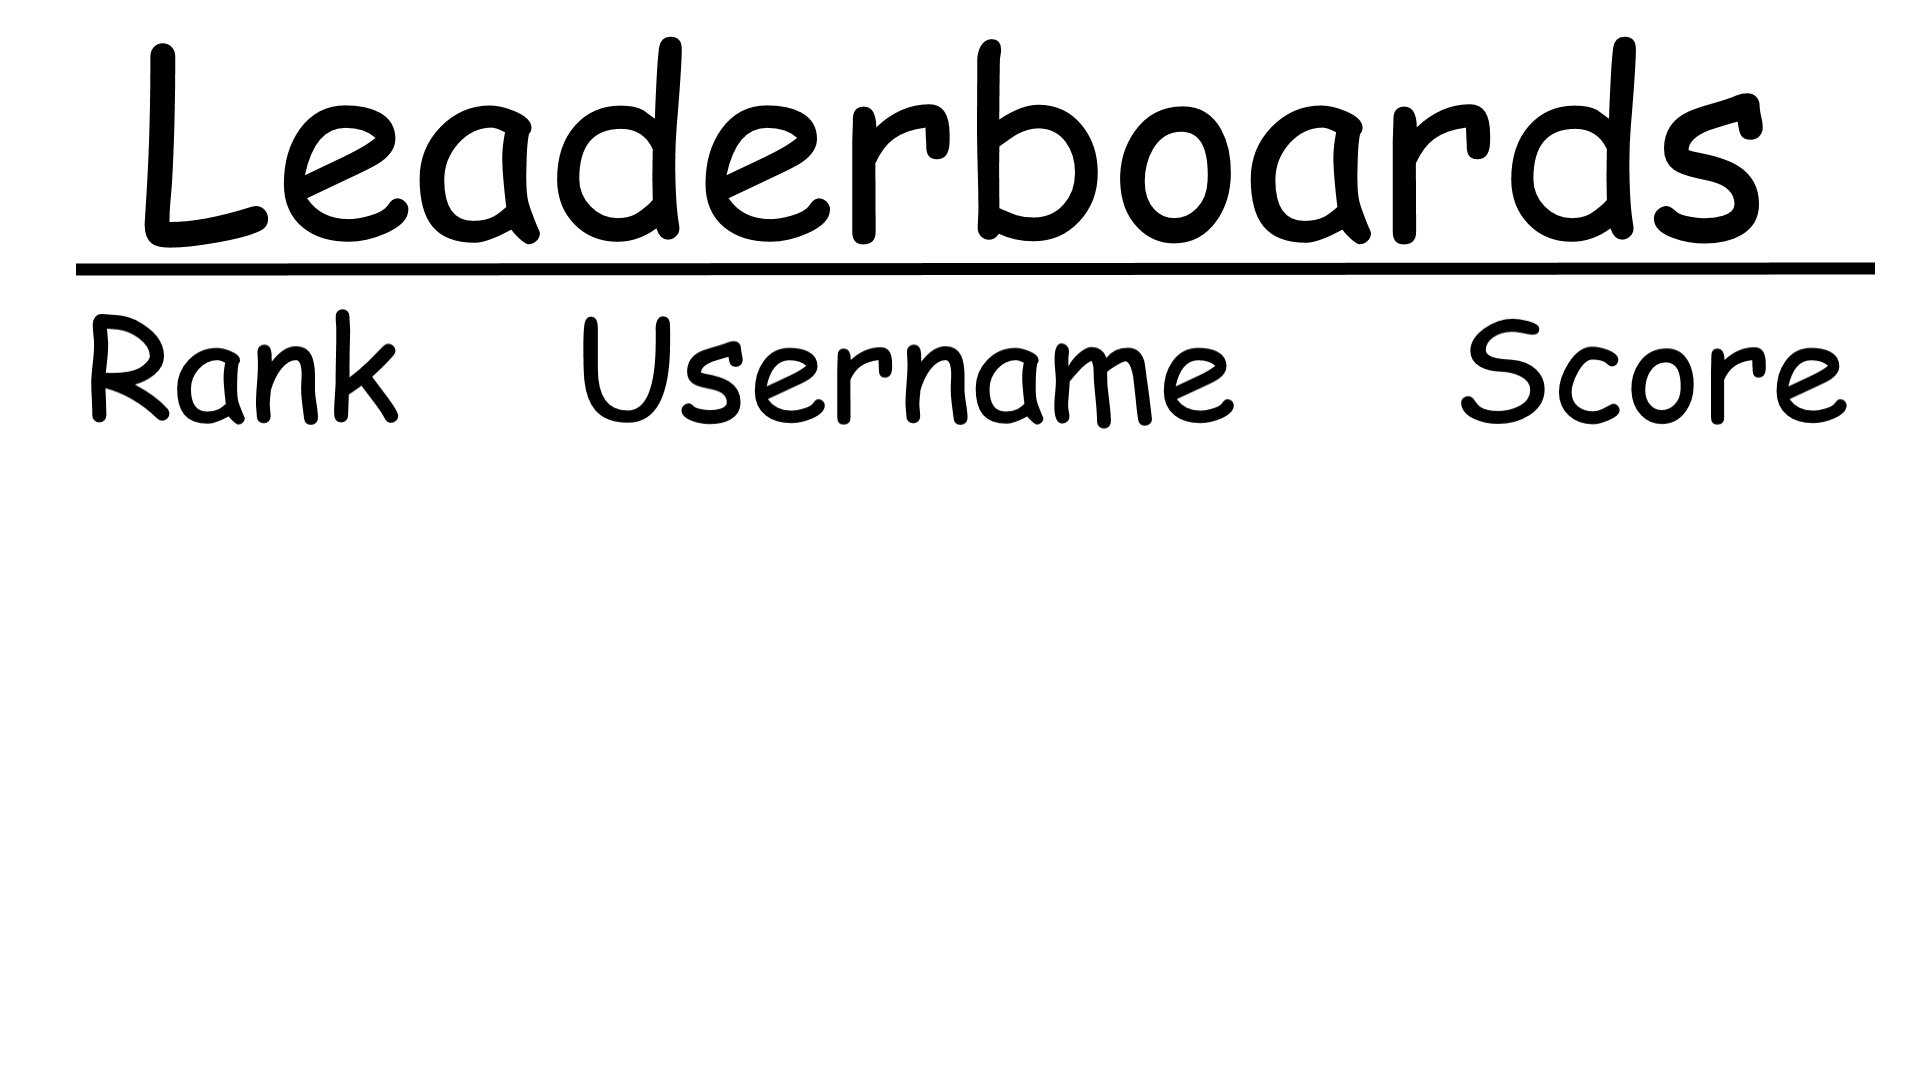
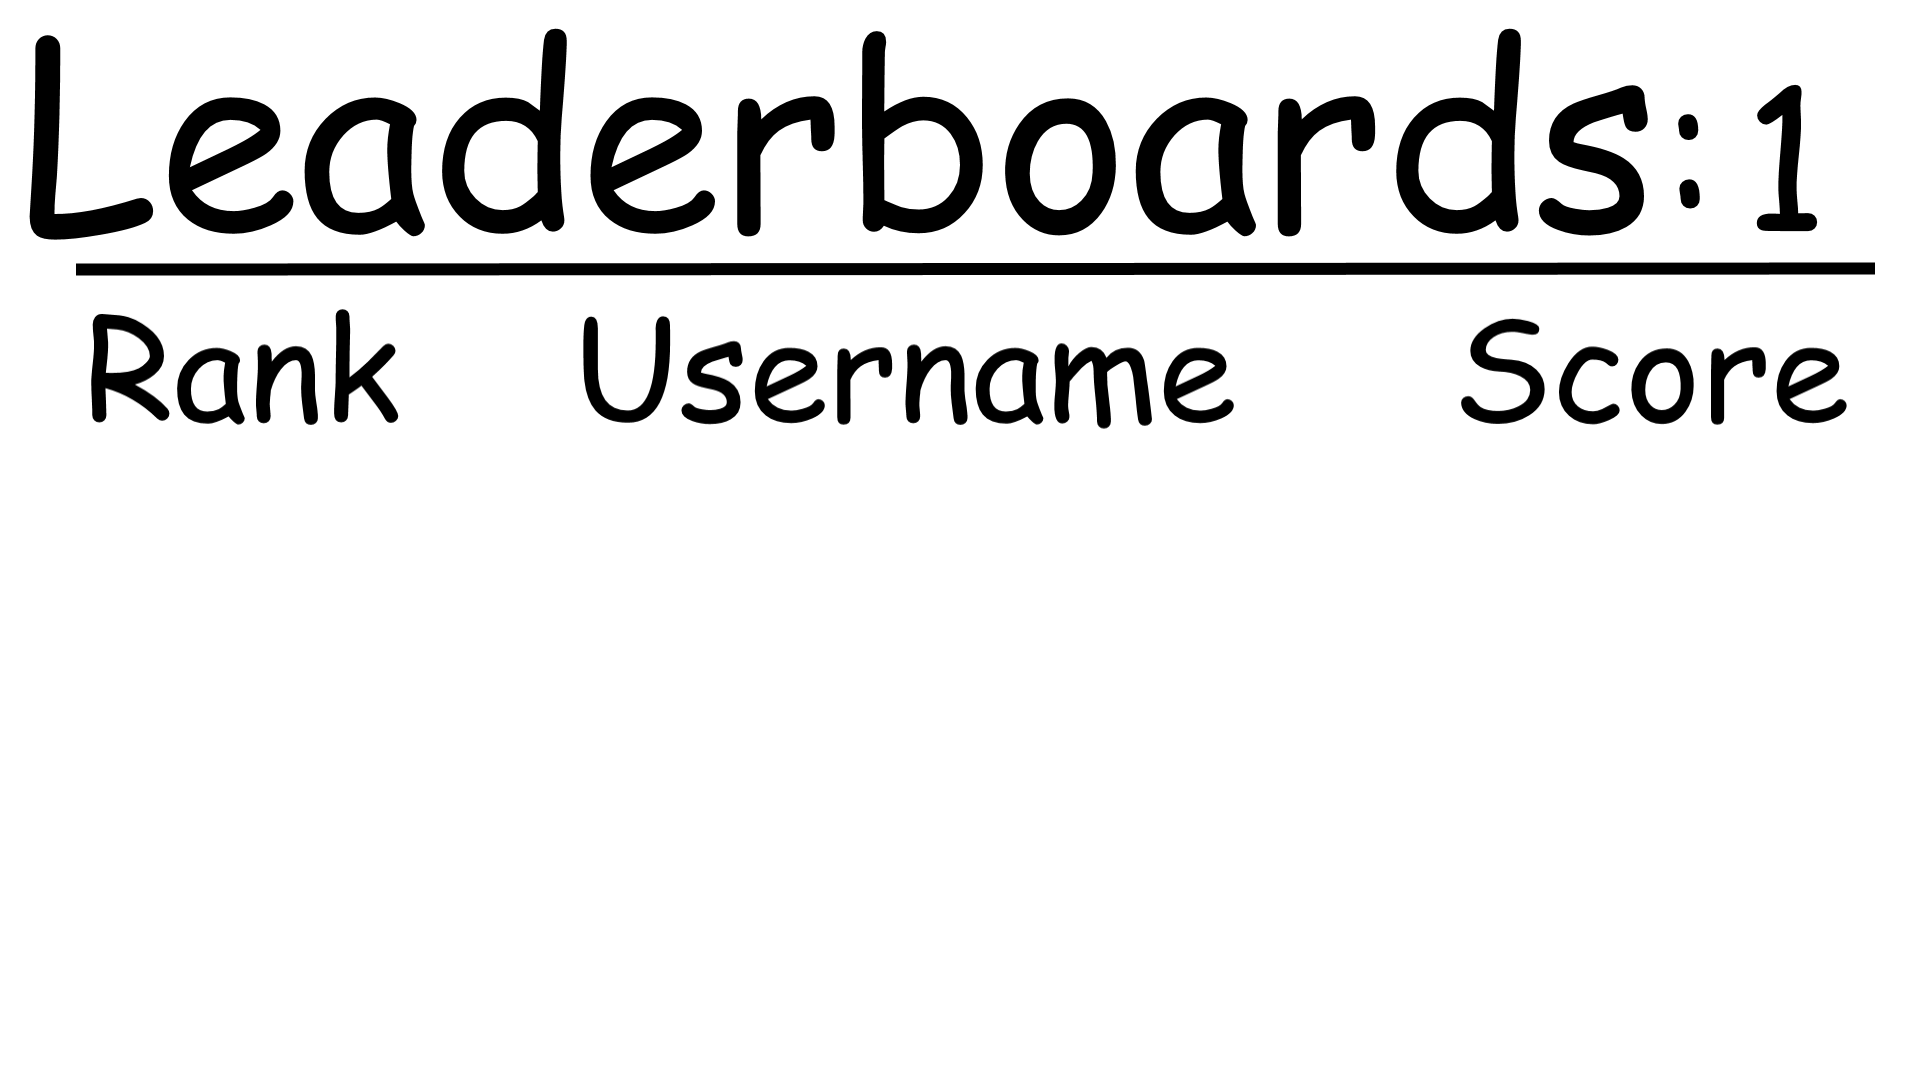
Level 2 support for leaderboards

Changed region(s): [[0.0, 0.0306, 0.9688, 0.2444]]

diff --git a/Platformer/Game1.cs b/Platformer/Game1.cs
@@ -131,11 +131,12 @@ namespace Platformer
         bool BadLength = false;
         bool usertaken = false;
 
-        Texture2D leaderboards;
+        Texture2D leaderboards, leaderboards2;
         List<String> ranks = new List<String>();
         List<String> users = new List<String>();
         List<String> scores = new List<String>();
         int leaderboardStart = 0;
+        int leaderboardLevel = 1;
 
         // Logged in
         bool LOGGED_IN = false;
@@ -254,8 +255,9 @@ namespace Platformer
                 ranks.Clear();
                 scores.Clear();
                 
+                
 
-                foreach (var i in db.viewLeaderboards(1))
+                foreach (var i in db.viewLeaderboards(leaderboardLevel))
                 {
                     
                     int y = 0;
@@ -292,8 +294,11 @@ namespace Platformer
 
 
             spriteBatch.Begin(); //
+            if(leaderboardLevel == 1)
+                spriteBatch.Draw(leaderboards, new Rectangle(0, 0, graphics.PreferredBackBufferWidth, graphics.PreferredBackBufferHeight), Color.White);
+            else
+                spriteBatch.Draw(leaderboards2, new Rectangle(0, 0, graphics.PreferredBackBufferWidth, graphics.PreferredBackBufferHeight), Color.White);
 
-            spriteBatch.Draw(leaderboards, new Rectangle(0, 0, graphics.PreferredBackBufferWidth, graphics.PreferredBackBufferHeight), Color.White);
             int len = ranks.Count;
             
             if (currentState.IsKeyDown(Keys.Down) && previousState.IsKeyUp(Keys.Down))
@@ -308,6 +313,16 @@ namespace Platformer
                     leaderboardStart--;
             }
 
+            if(currentState.IsKeyDown(Keys.Right))
+                {
+                    leaderboardLevel = 2;
+                firstboard = true;
+                }
+            if(currentState.IsKeyDown(Keys.Left))
+                {
+                    leaderboardLevel = 1;
+                    firstboard = true;
+                }
             // Rank
             for (int i = leaderboardStart; i < len; i++)
                 spriteBatch.DrawString(font, ranks[i].ToString(), new Vector2(graphics.PreferredBackBufferWidth / 10, (graphics.PreferredBackBufferHeight / (2.5f)) + (graphics.PreferredBackBufferHeight * (i - leaderboardStart) /20f)), Color.White);
@@ -1078,6 +1093,7 @@ namespace Platformer
             enter = Content.Load<Texture2D>("enter");
 
             leaderboards = Content.Load<Texture2D>("leaderboards");
+            leaderboards2 = Content.Load<Texture2D>("leaderboards2");
 
             createaccount = Content.Load<Texture2D>("createaccount");
             confirmpassword = Content.Load<Texture2D>("confirmpassword");
